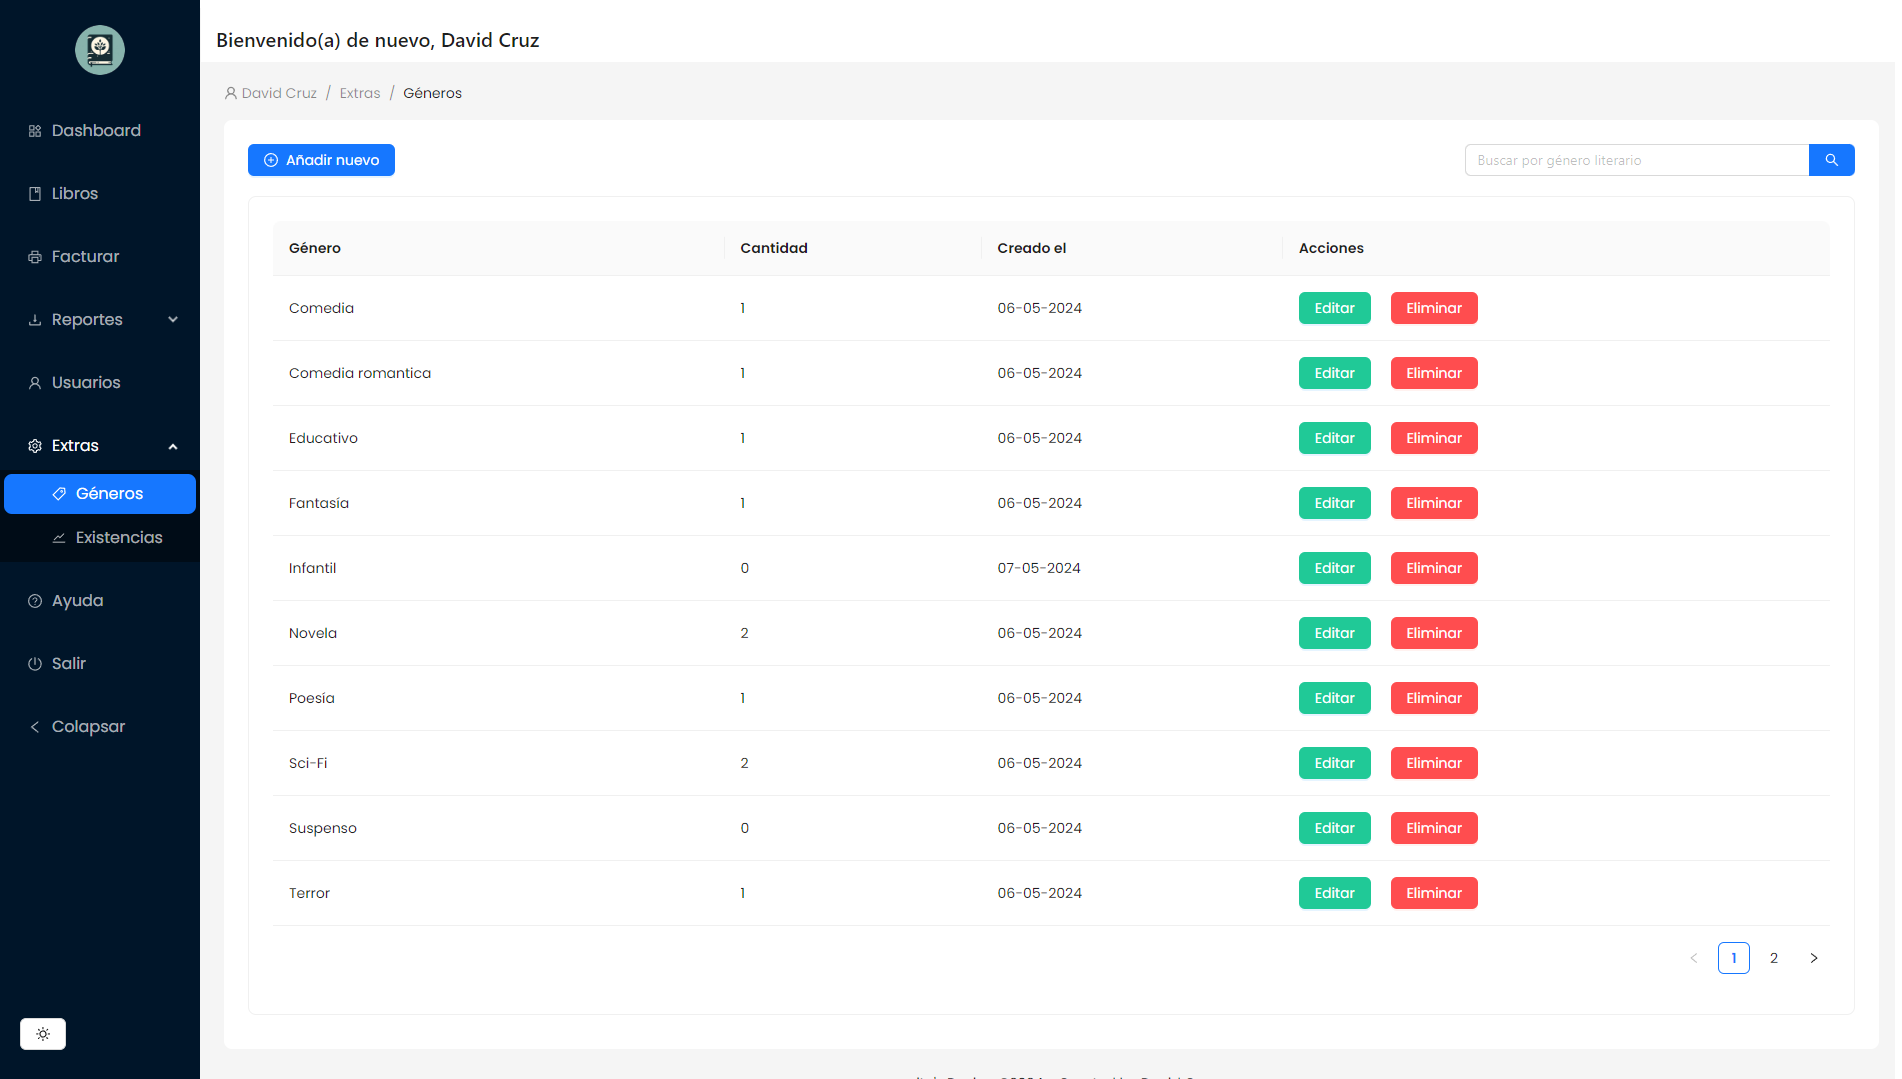
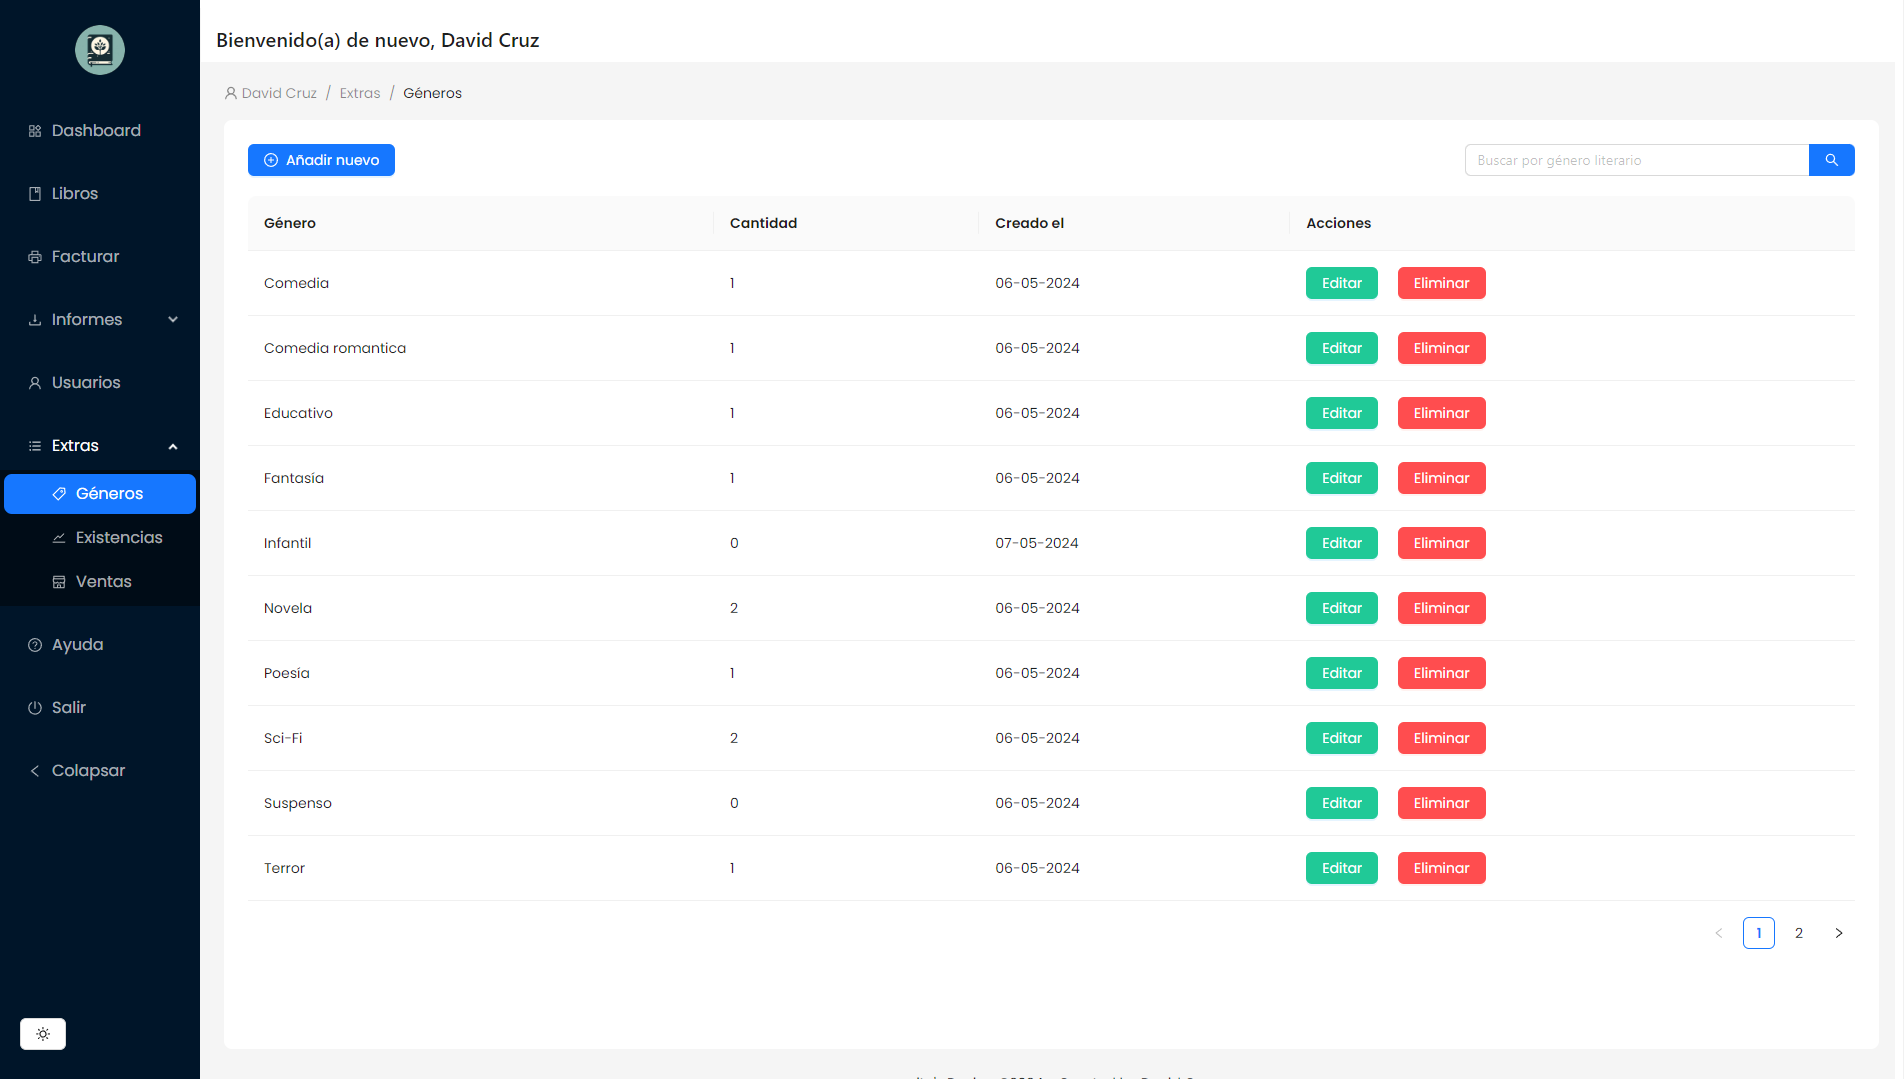
Help Center has been updated

diff --git a/frontend/src/views/help/Help.jsx b/frontend/src/views/help/Help.jsx
@@ -57,6 +57,7 @@ import refreshStockTableAfterDelete from "../../assets/images/stock/refreshStock
 import activateButton from "../../assets/images/buttons/activateButton.png";
 import successStockActivation from "../../assets/images/stock/successStockActivation.png";
 import refreshStockTableAfterActivate from "../../assets/images/stock/refreshStockTableAfterActivate.png";
+import sales from "../../assets/images/sales/sales.png";
 
 const Help = () => {
   const { Content } = Layout;
@@ -329,7 +330,7 @@ const Help = () => {
                 ),
               },
             ]}
-          ></Collapse>
+          />
 
           <br />
           <Collapse
@@ -999,6 +1000,29 @@ const Help = () => {
                         },
                       ]}
                     />
+                  </>
+                ),
+              },
+            ]}
+          />
+          
+          <br />
+          <Collapse
+            size="large"
+            items={[
+              {
+                key: "0",
+                label: "Ventas",
+                children: (
+                  <>
+                    <div style={{ textAlign: "center" }}>
+                      <Image
+                        src={sales}
+                        preview={false} // Desactiva la previsualización si no es necesaria
+                        style={{ maxWidth: "80%", height: "auto" }} // Establece un ancho máximo y ajusta la altura automáticamente
+                      />
+                    </div>
+                    <p> En este apartado podrás visualizar todas las ventas realizadas y su información respectiva. </p>
                   </>
                 ),
               },
